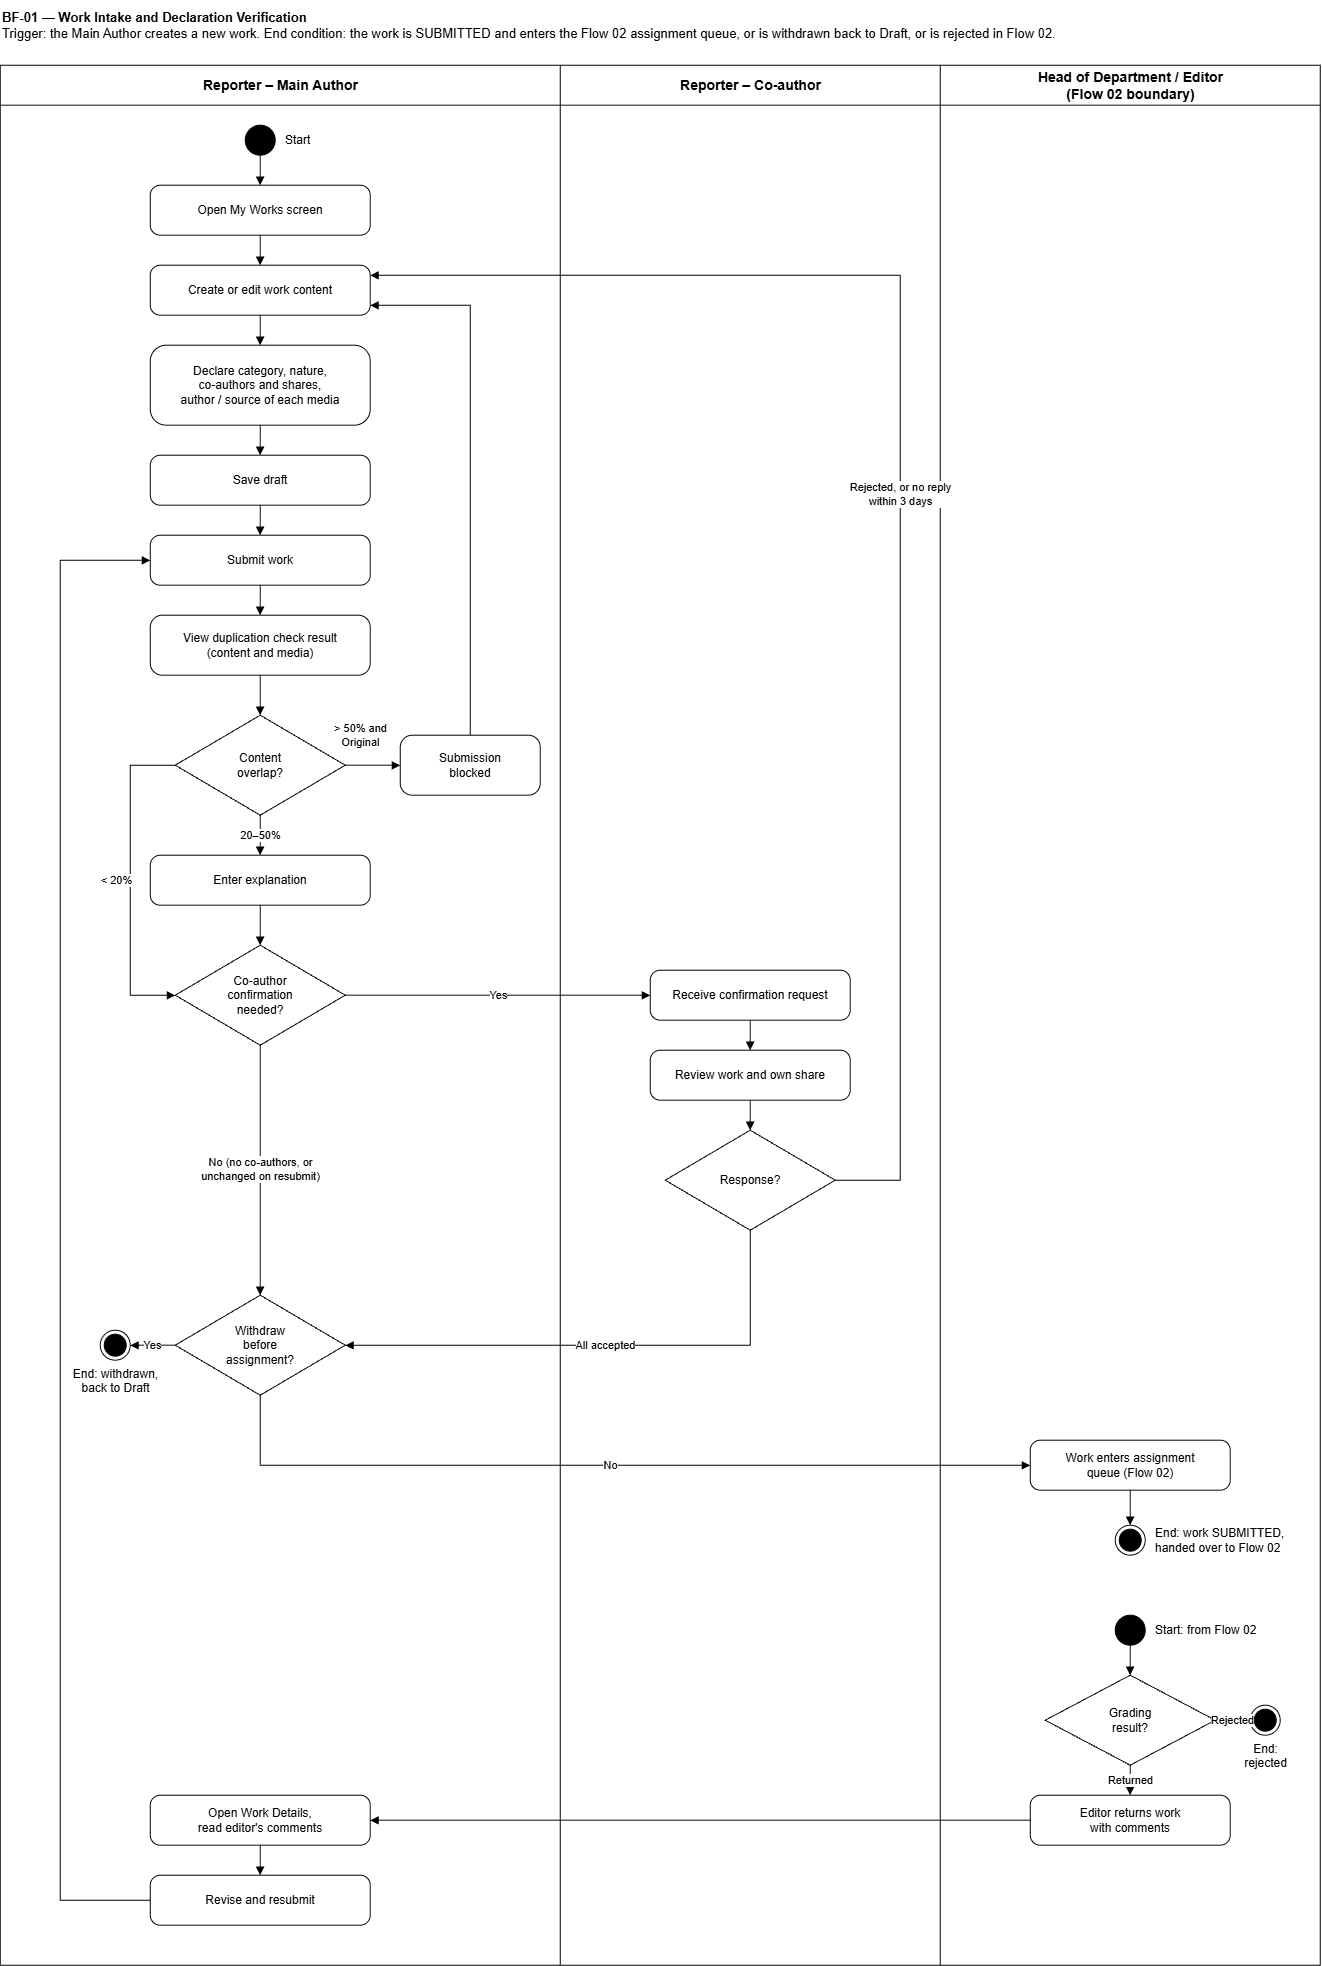
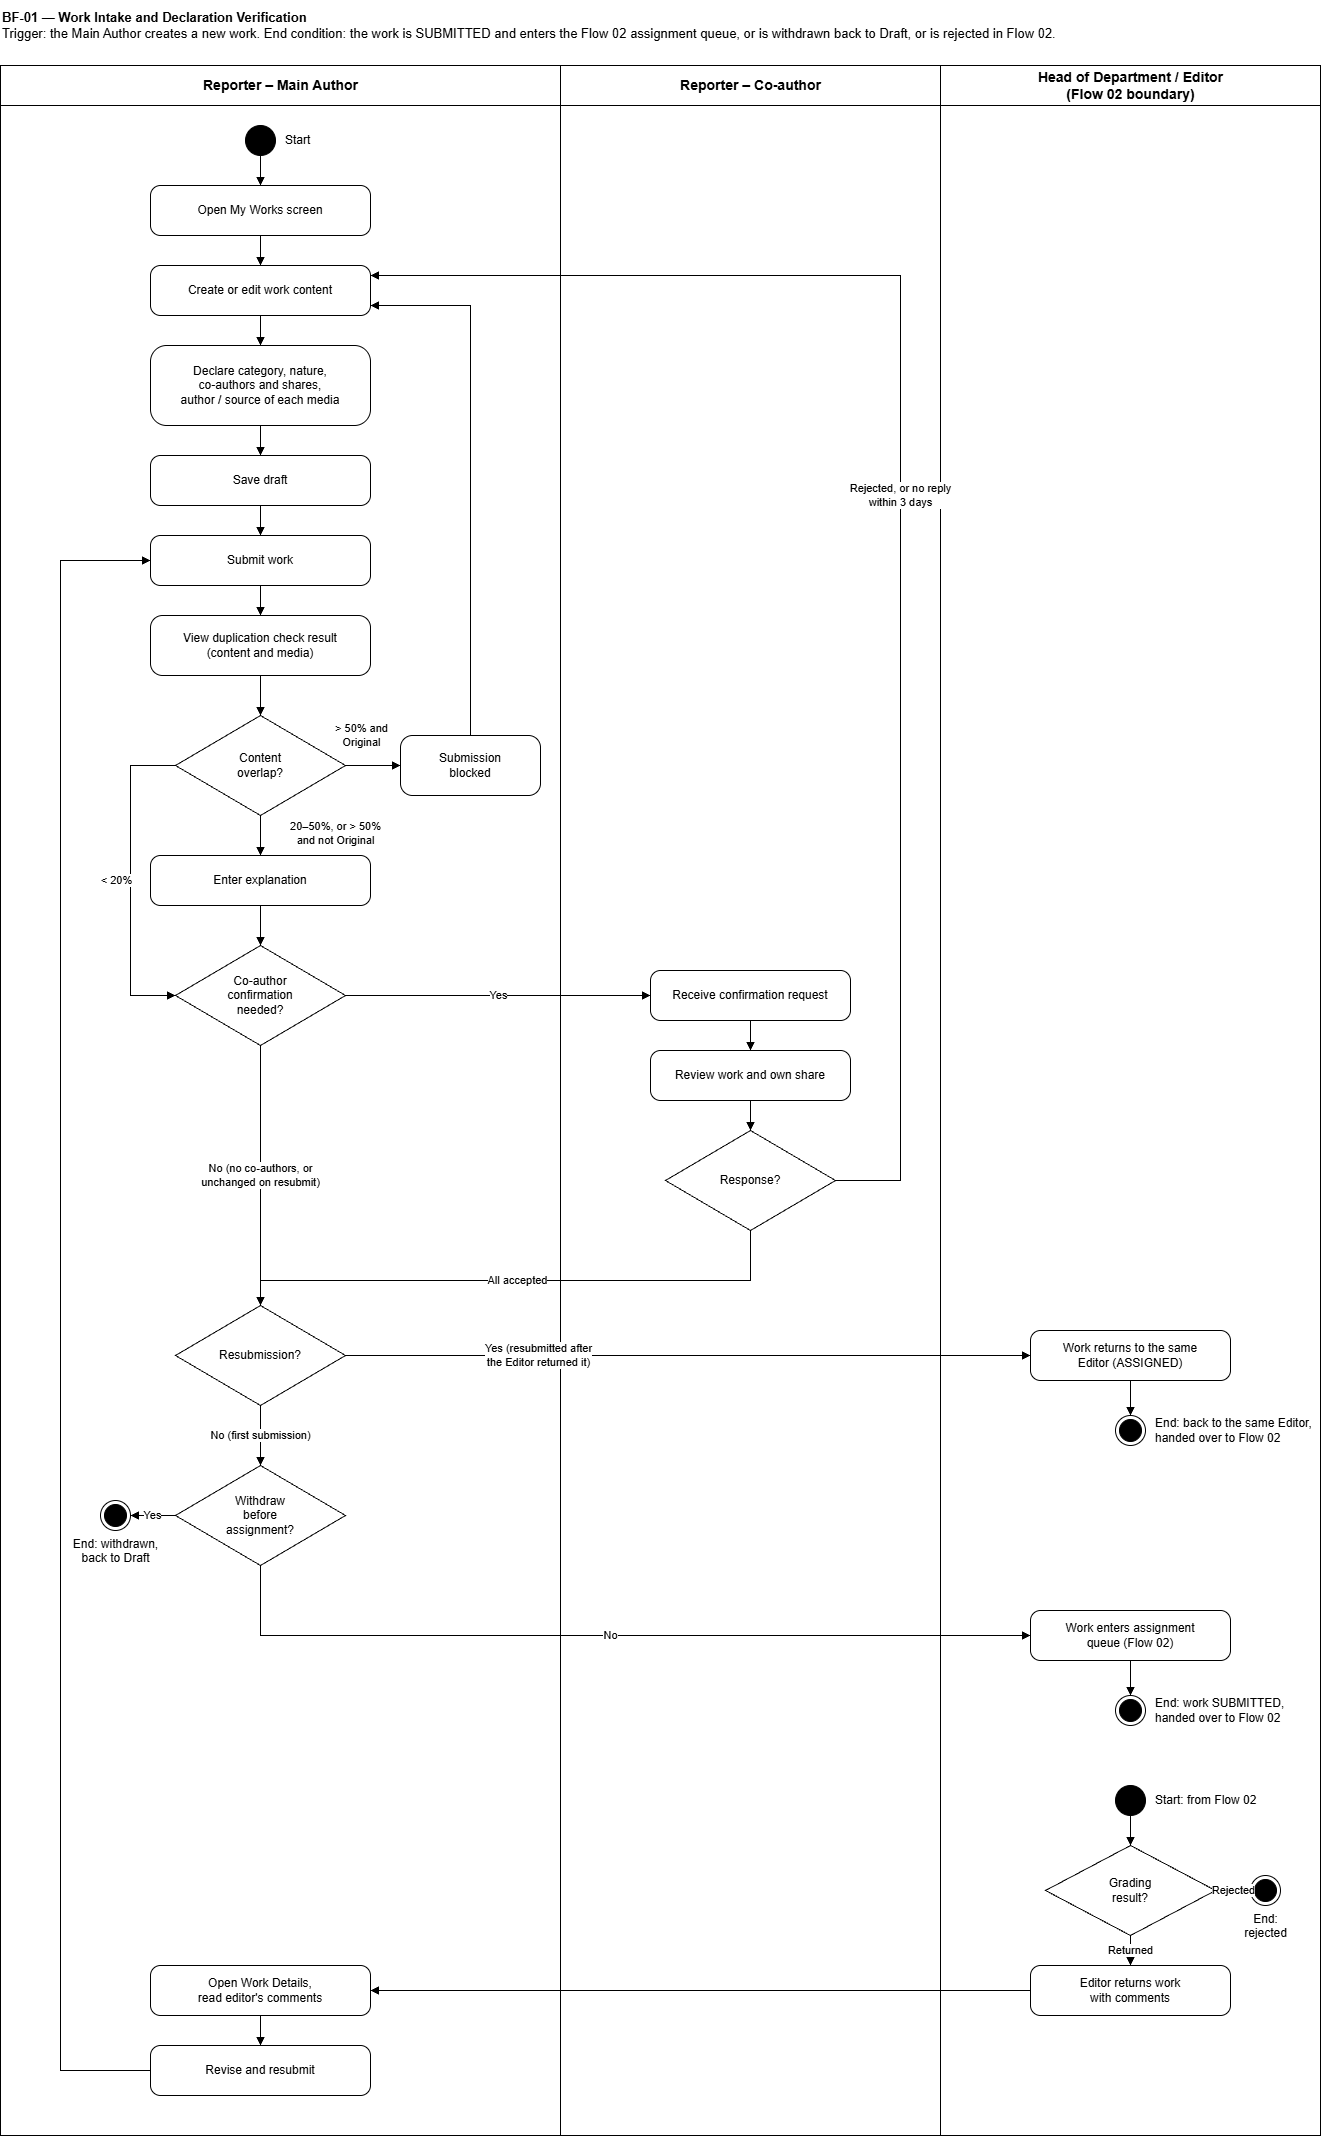
[BF-01] Đồng bộ tài liệu BF-01 theo SRS Google ngày 21/10
- Swimlane: thêm nhánh "Resubmission?" (nộp lại về đúng BTV cũ - ASSIGNED, BR-IN-07);
  nhãn nhánh trùng nội dung "20–50%, or > 50% and not Original" (UC-05 A1)
- Hình Use case xuất lại (sửa lỗi chữ "Declaratioh", "Duplicatioh")
- UC-01: lời mời đồng tác giả nằm ở màn Co-authorship Confirmation (UC-12)
- UC-12: Actor bỏ "System (Timer)", Trigger "Co-authorship Confirmation"

diff --git a/docs/SRS_BF01_Article.md b/docs/SRS_BF01_Article.md
@@ -1,6 +1,6 @@
 # SRS — BF-01 Viết và nộp bài (Work Intake and Declaration Verification)
 
-> Chuyển từ `SRS.pdf`, đồng bộ lại theo bản SRS trên Google Docs ngày 2026-10-12. Luồng `article` (tiền tố class `Article`, `Duplication`). Đọc kèm `docs/SRS_Overview.md` (mục **Vấn đề đã biết**, GBR, Constraints) và `database/schema.sql`.
+> Chuyển từ `SRS.pdf`, đồng bộ lại theo bản SRS trên Google Docs ngày 2026-10-21 (swimlane thêm nhánh "Resubmission?", hình Use case xuất lại, UC-01 và UC-12 sửa chữ). Luồng `article` (tiền tố class `Article`, `Duplication`). Đọc kèm `docs/SRS_Overview.md` (mục **Vấn đề đã biết**, GBR, Constraints) và `database/schema.sql`.
 
 - **Trigger (mục 2.1):** Phóng viên tạo bài mới.
 - **End condition (mục 2.1):** Bài ở trạng thái SUBMITTED và vào hàng chờ phân công của Flow 02; hoặc tác giả chính rút bài về DRAFT; hoặc bài bị từ chối ở Flow 02.
@@ -17,19 +17,22 @@ Mô tả sơ đồ (3 làn: Reporter – Main Author | Reporter – Co-author | 
 1. Main Author: Open My Works screen → Create or edit work content → Declare category, nature, co-authors and shares, author / source of each media → Save draft → Submit work → View duplication check result (content and media).
 2. Quyết định **Content overlap?**
    - `> 50% and Original` → Submission blocked → quay lại Create or edit work content.
-   - `20–50%` → Enter explanation → sang bước 3.
+   - `20–50%, or > 50% and not Original` → Enter explanation → sang bước 3 (UC-05 A1).
    - `< 20%` → sang bước 3.
 3. Quyết định **Co-author confirmation needed?**
    - Yes → Co-author: Receive confirmation request → Review work and own share → **Response?**
      - Rejected, or no reply within 3 days → quay lại Create or edit work content (bài về Draft).
      - All accepted → sang bước 4.
    - No (no co-authors, or unchanged on resubmit) → sang bước 4.
-4. Quyết định **Withdraw before assignment?**
+4. Quyết định **Resubmission?**
+   - Yes (resubmitted after the Editor returned it) → Head of Department / Editor: Work returns to the same Editor (ASSIGNED) → End: back to the same Editor, handed over to Flow 02 (BR-IN-07).
+   - No (first submission) → sang bước 5.
+5. Quyết định **Withdraw before assignment?**
    - Yes → End: withdrawn, back to Draft.
    - No → Work enters assignment queue (Flow 02) → End: work SUBMITTED, handed over to Flow 02.
-5. Start: from Flow 02 → **Grading result?**
+6. Start: from Flow 02 → **Grading result?**
    - Rejected → End: rejected.
-   - Returned → Editor returns work with comments → Main Author: Open Work Details, read editor's comments → Revise and resubmit → quay lại Submit work.
+   - Returned → Editor returns work with comments → Main Author: Open Work Details, read editor's comments → Revise and resubmit → quay lại Submit work (rồi tới bước 4: Resubmission? → Yes).
 
 ## Use Case Diagram
 
@@ -49,7 +52,7 @@ Primary Actor: Reporter, Admin · 13 use cases · ID 01–13
 
 | ID | Use Case | Feature | Use Case Description |
 |---|---|---|---|
-| 01 | View My Works | Work Management | The Reporter views all works where they are the main author or a co-author, filters by status, and sees works waiting for their confirmation. |
+| 01 | View My Works | Work Management | The Reporter views all works where they are the main author or a co-author and filters by status; works waiting for their confirmation as a co-author are listed on the Co-authorship Confirmation screen (UC-12). |
 | 02 | View Work Details | Work Management | The Reporter views the content, the locked declarations, each co-author's confirmation status and the status history of a work. |
 | 03 | Create and Edit Work | Work Management | The Reporter creates or edits a work in DRAFT status and declares its category, its nature (original / translation / compilation / repost) and the author or source of each image/video. |
 | 04 | Declare Co-authors and Shares | Co-authorship | The main author adds up to 5 authors and sets each share; every share must be above 0% and the total must be 100%. |
@@ -140,8 +143,8 @@ Primary Actor: Reporter, Admin · 13 use cases · ID 01–13
 
 | Field | Value |
 |---|---|
-| Actor | Reporter (co-author) · System (Timer) |
-| Trigger | The co-author opens a work from "Waiting for my confirmation" or from the notification. |
+| Actor | Reporter (co-author) |
+| Trigger | The co-author opens a work from "Co-authorship Confirmation" or from the notification. |
 | Preconditions | The work is PENDING_CONFIRMATION; the user is a co-author of the work with confirmation status PENDING; the 3-day confirmation deadline has not passed. |
 | Postconditions | The answer is recorded. All accepted: the work is SUBMITTED. One rejected or deadline passed: the work returns to DRAFT. |
 | Business Rules | BR-IN-06 |
